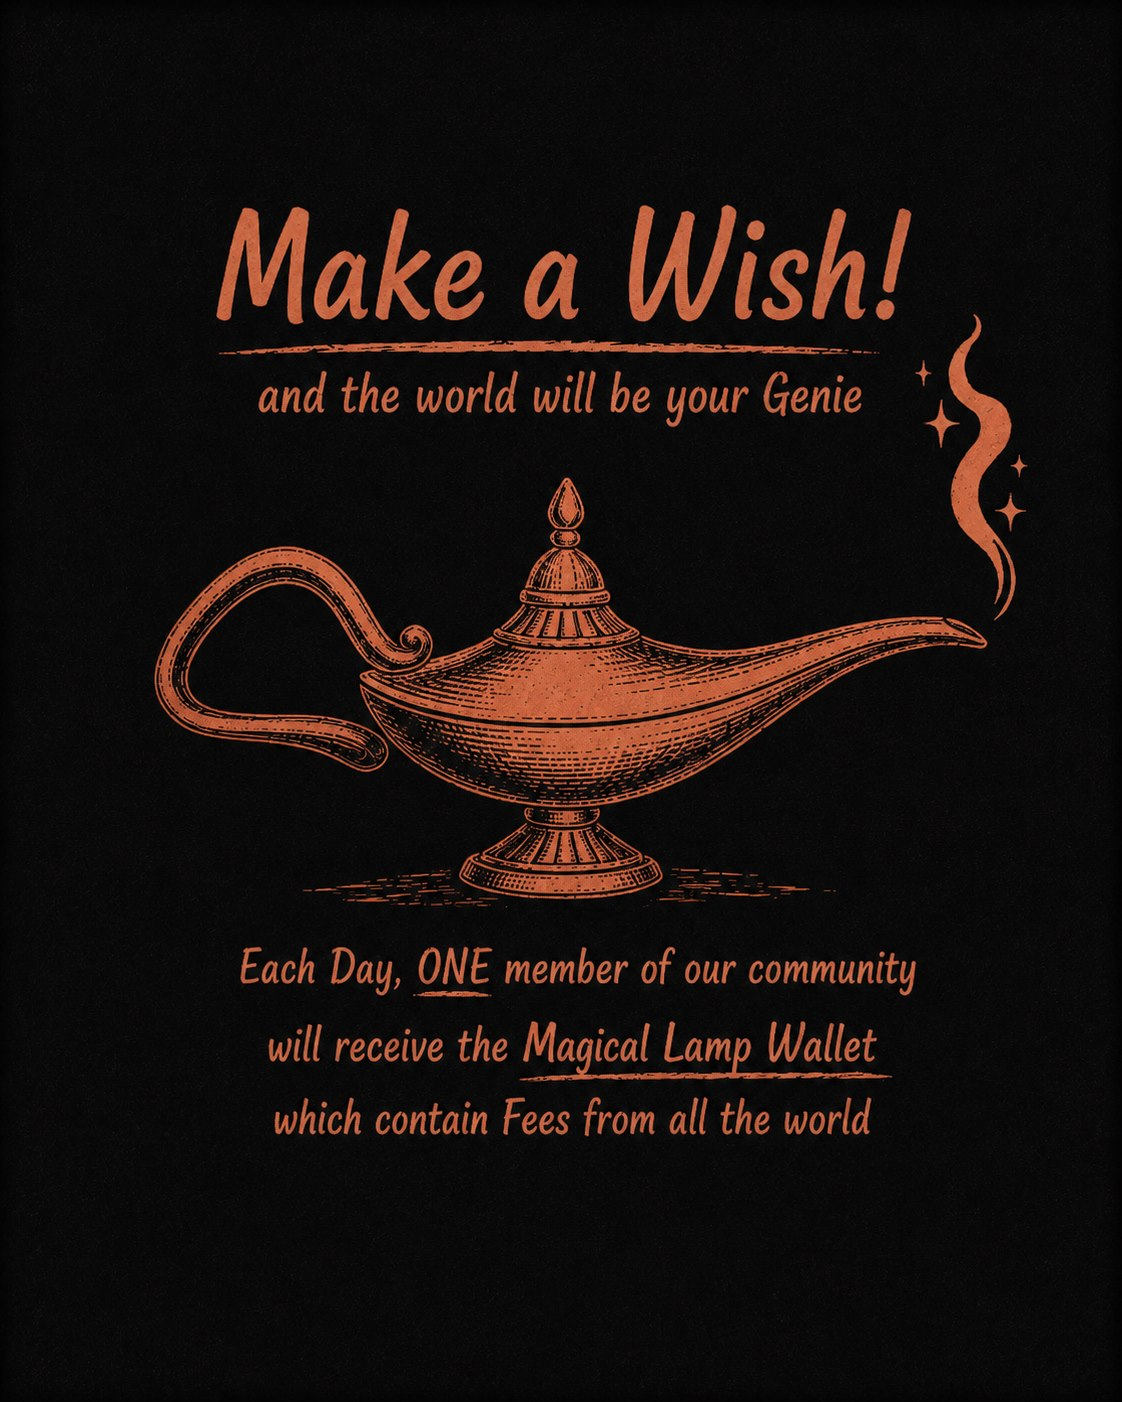
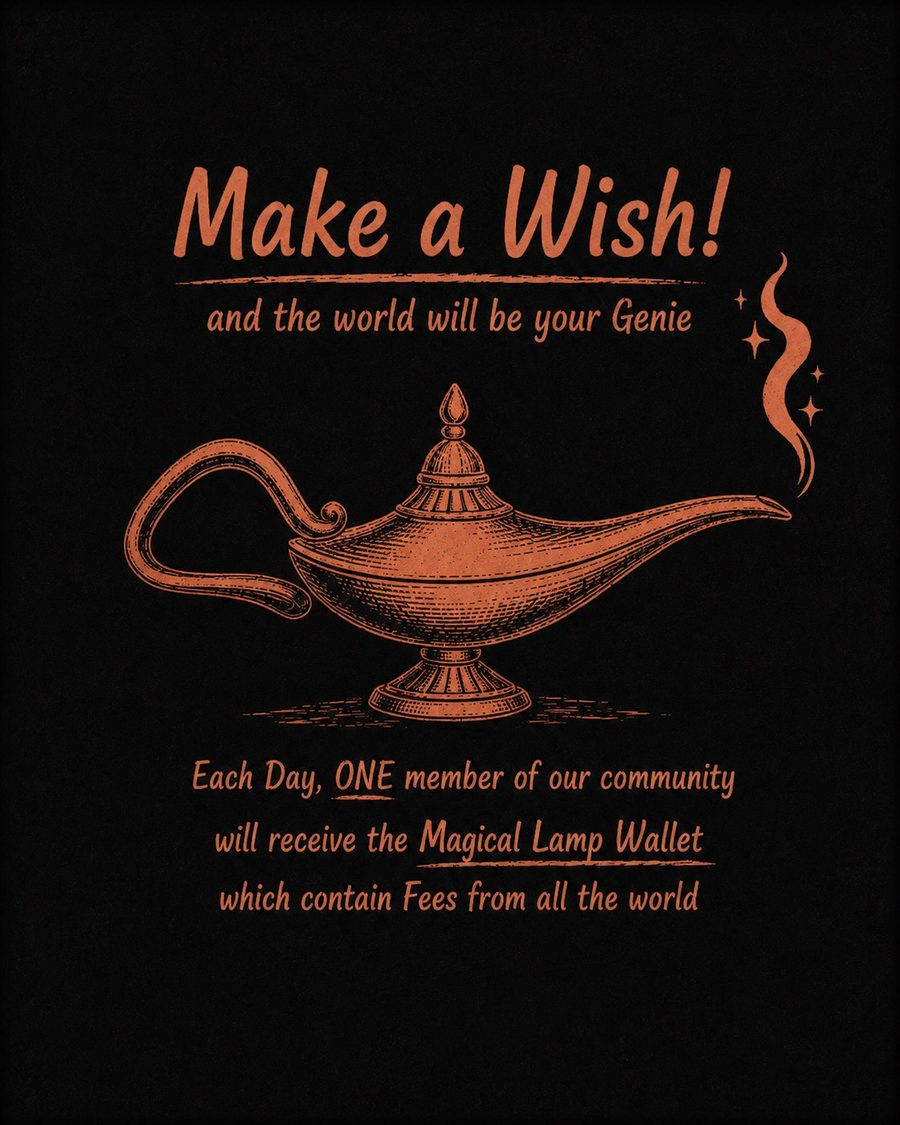
perf: preload cover, WebP variants, downsize images (76% lighter)
- Preconnect to fonts/jsdelivr to skip DNS+TLS on first paint
- Preload p1 as WebP with fetchpriority=high (the LCP image)
- <picture> with WebP source + JPEG fallback for all 3 pages
- Resize 1122x1402 -> 900x1125 + progressive JPEG + WebP@q80
- Total cover-image payload: 706KB -> 172KB

diff --git a/index.html b/index.html
@@ -5,6 +5,12 @@
 <meta name="viewport" content="width=device-width, initial-scale=1.0">
 <meta name="theme-color" content="#0e0c0a">
 
+<!-- Performance: warm up connections + preload the LCP cover -->
+<link rel="preconnect" href="https://fonts.googleapis.com">
+<link rel="preconnect" href="https://fonts.gstatic.com" crossorigin>
+<link rel="preconnect" href="https://cdn.jsdelivr.net" crossorigin>
+<link rel="preload" as="image" href="img/p1.webp?v=3" type="image/webp" fetchpriority="high">
+
 <!-- Primary SEO -->
 <title>Genie Coin — Make a Wish, Buy $GENIE</title>
 <meta name="description" content="Genie Coin ($GENIE) — the magical lamp of crypto. Make a wish, rub the lamp, and grant your dream. Join the community on X and Telegram.">
@@ -137,6 +143,10 @@ nav {
   width: 100%; height: 100%;
   position: relative;
   overflow: hidden;
+}
+.page picture {
+  display: block;
+  width: 100%; height: 100%;
 }
 .page img {
   width: 100%; height: 100%;
@@ -339,7 +349,10 @@ nav {
     <div class="page" id="p1">
       <div class="page-inner">
         <div class="page-image-frame">
-          <img src="img/p1.jpg?v=2" alt="Genie Coin">
+          <picture>
+            <source type="image/webp" srcset="img/p1.webp?v=3">
+            <img src="img/p1.jpg?v=3" alt="Genie Coin" fetchpriority="high" decoding="async">
+          </picture>
           <div class="page-cta">
             <a href="#" class="pill-btn">Buy Genie</a>
           </div>
@@ -349,14 +362,20 @@ nav {
     <div class="page" id="p2">
       <div class="page-inner">
         <div class="page-image-frame">
-          <img src="img/p2.jpg?v=2" alt="What is your Dream?">
+          <picture>
+            <source type="image/webp" srcset="img/p2.webp?v=3">
+            <img src="img/p2.jpg?v=3" alt="What is your Dream?" decoding="async">
+          </picture>
         </div>
       </div>
     </div>
     <div class="page" id="p3">
       <div class="page-inner">
         <div class="page-image-frame">
-          <img src="img/p3.jpg?v=2" alt="Make a Wish — the Magical Lamp">
+          <picture>
+            <source type="image/webp" srcset="img/p3.webp?v=3">
+            <img src="img/p3.jpg?v=3" alt="Make a Wish — the Magical Lamp" decoding="async">
+          </picture>
         </div>
       </div>
     </div>